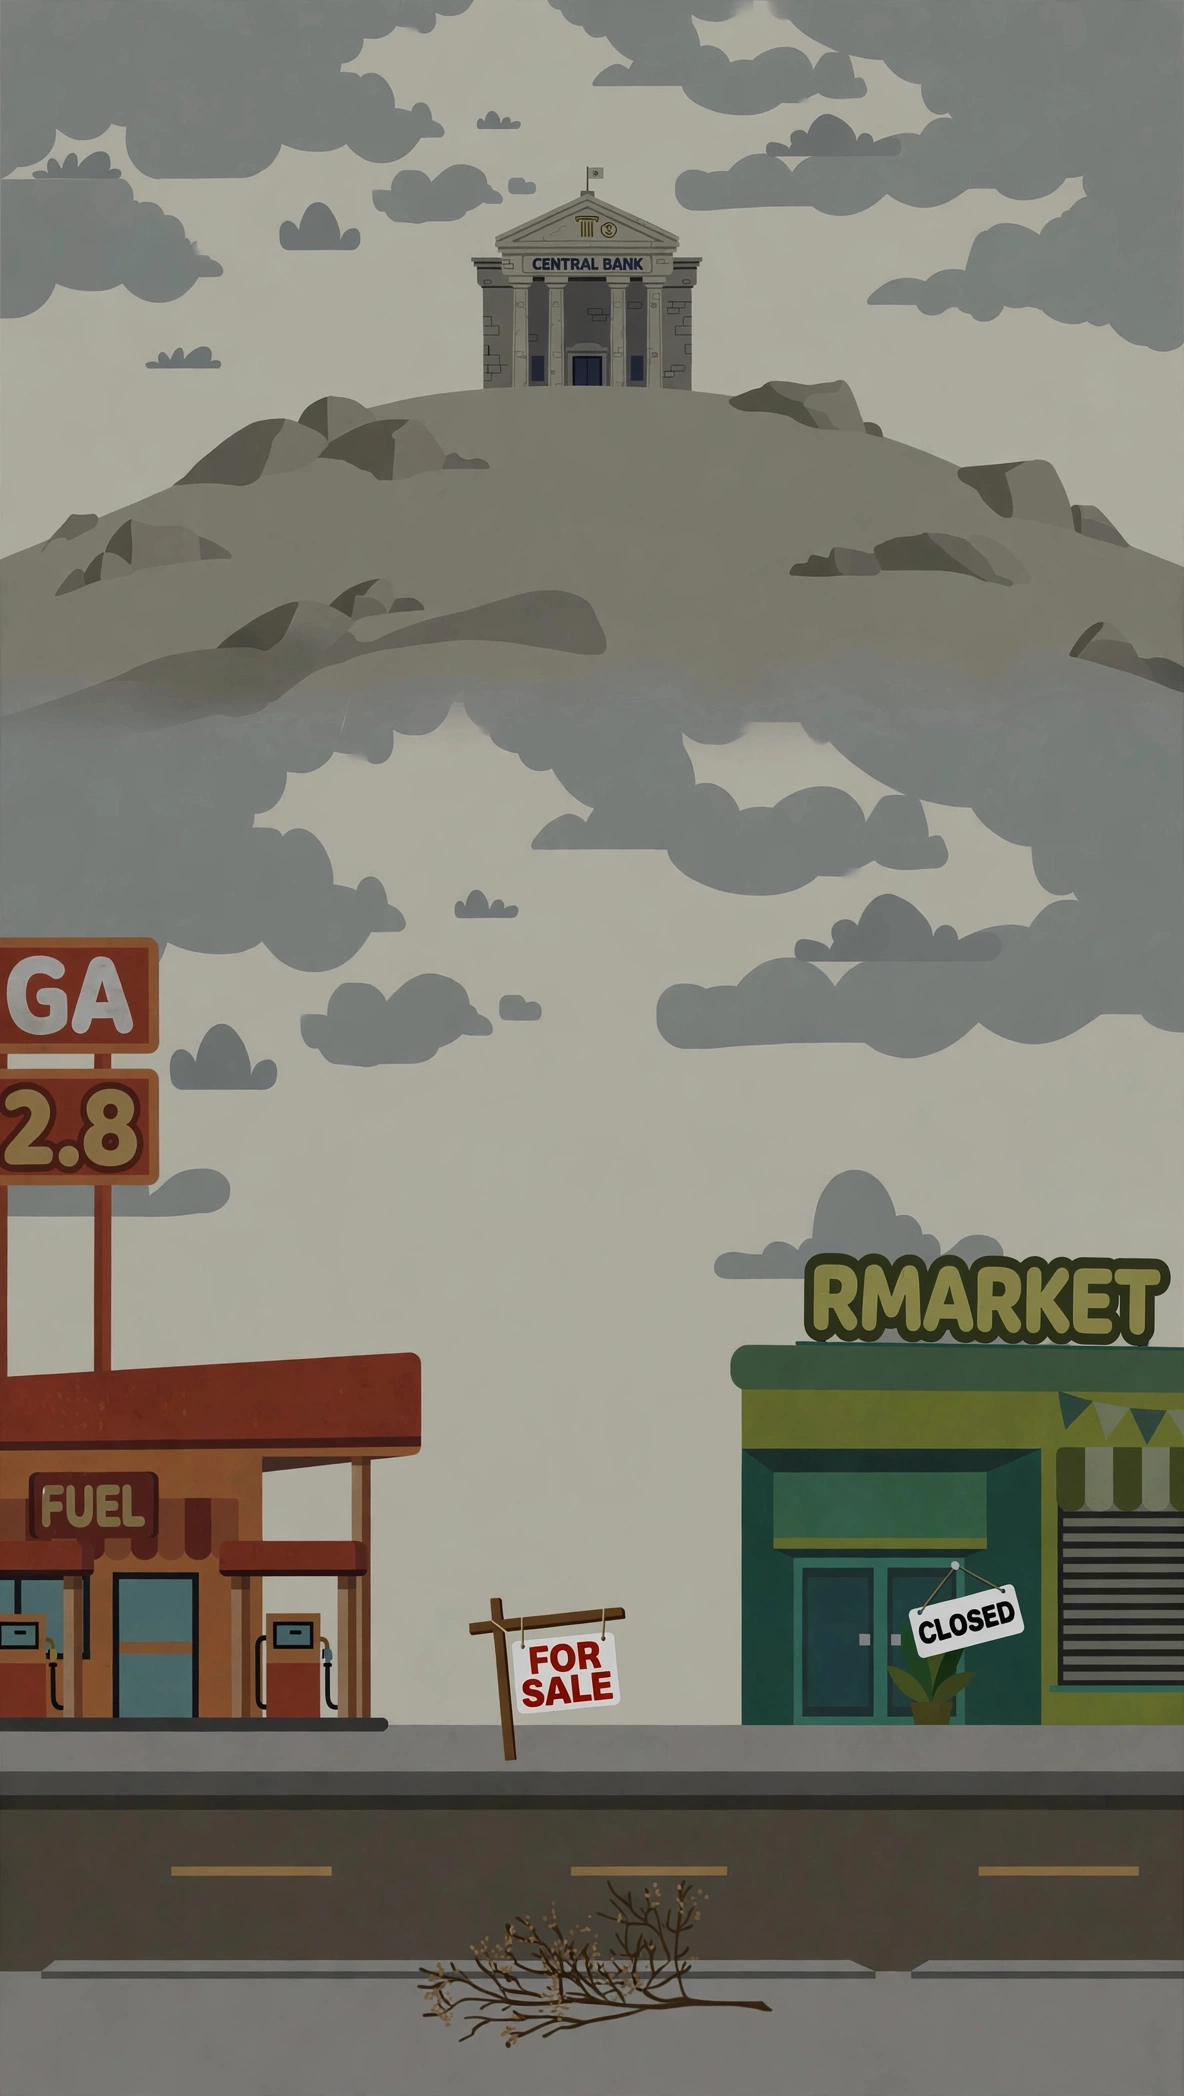
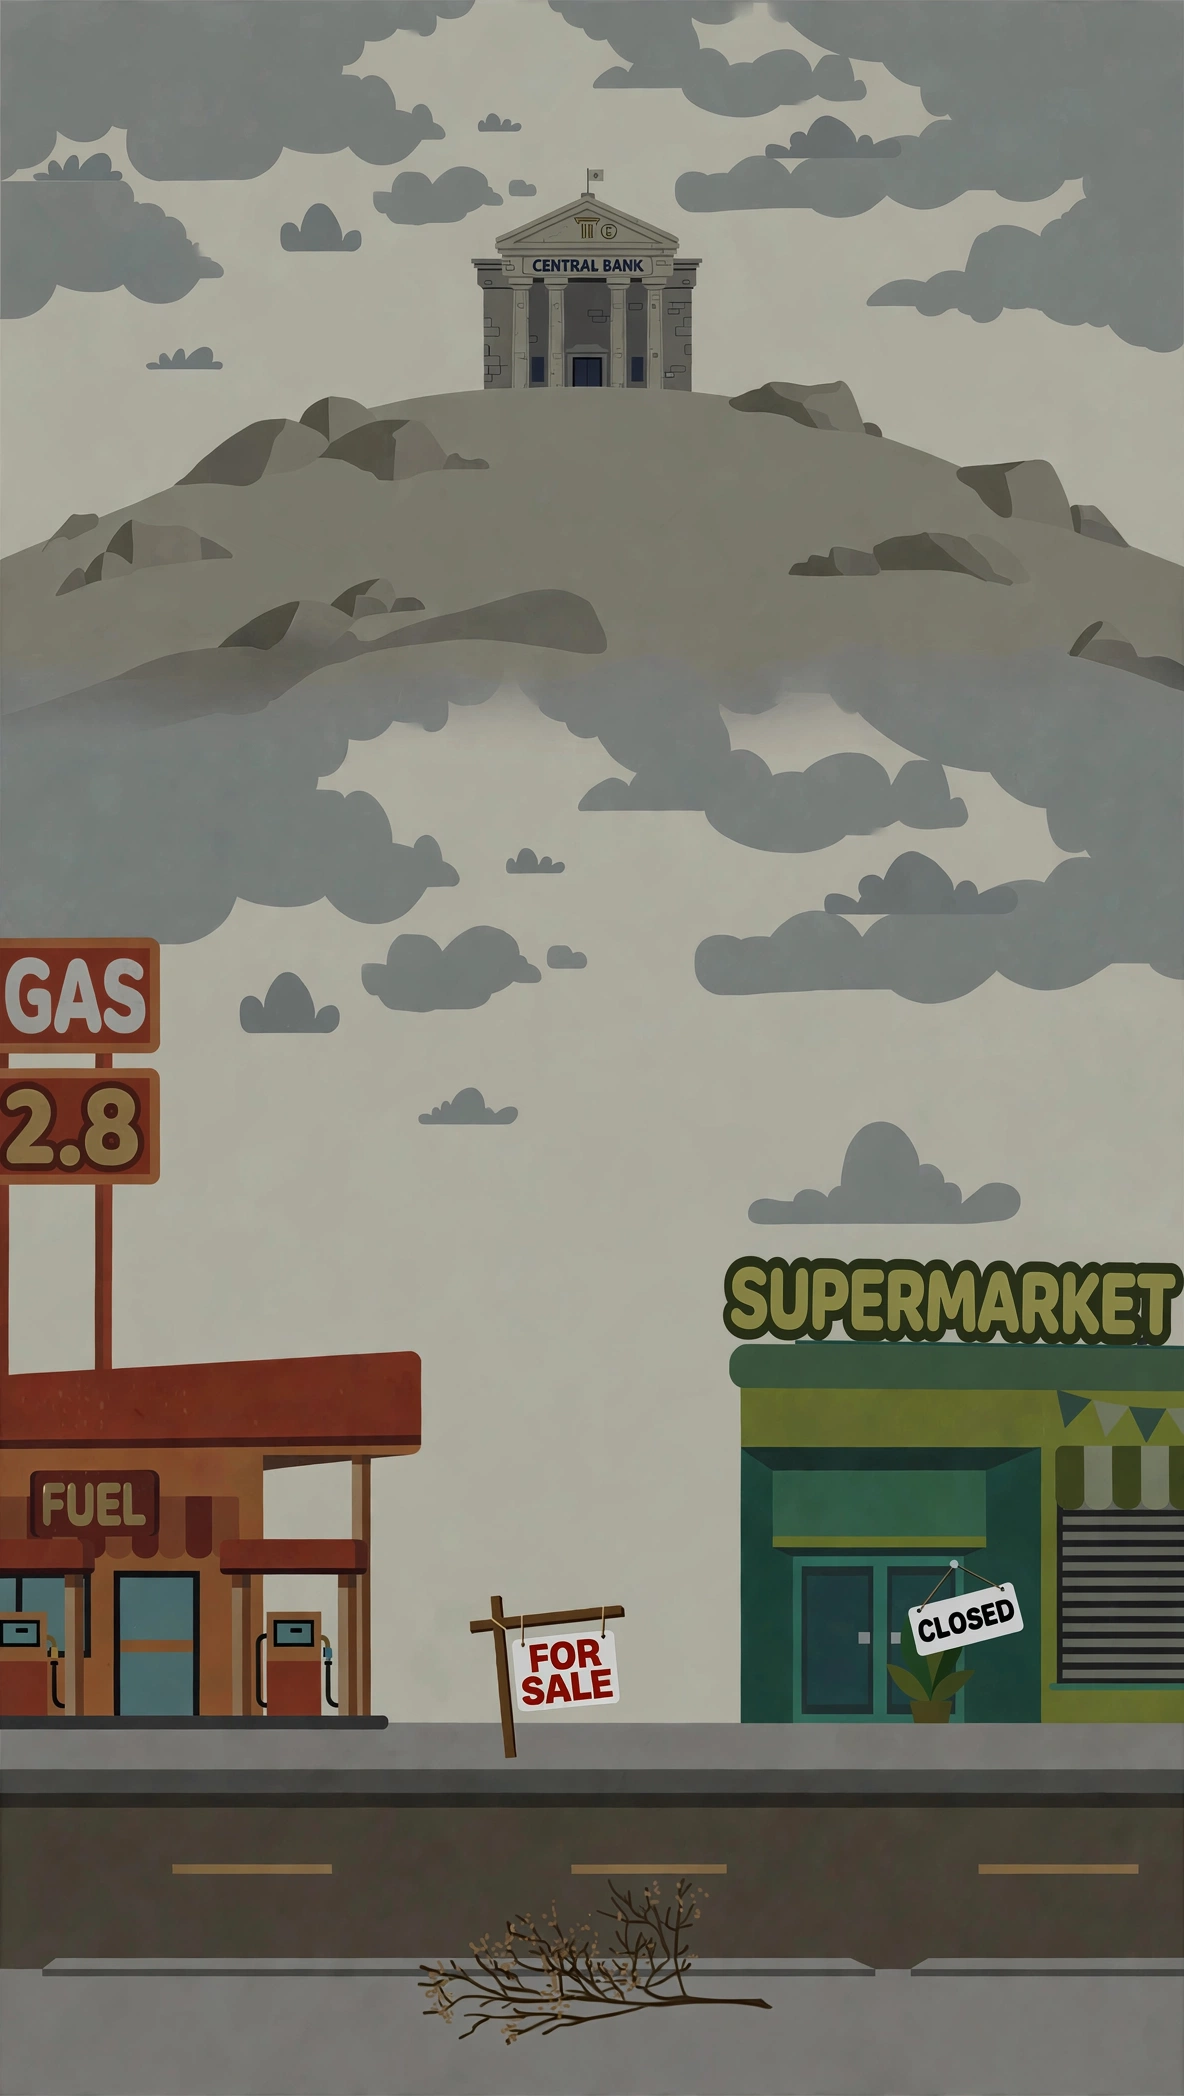
v18: backgrounds remade with space for the price signs, sign positions re-measured from the artwork pixels

diff --git a/game.js b/game.js
@@ -160,11 +160,11 @@ function sceneFor(){
 /* rects are 0-1000 normalised boxes around the prices baked into each plate;
    layout maps them through the same cover/50% 92% maths the CSS background uses */
 const SCENE_PRICES = {
-  normal:    {iw:1120, ih:2240, gas:{r:[2,548,138,594], bg:"#EF551E", fg:"#FFE93C"}, eggs:{r:[638,785,737,832], tag:[736,788,803,819]}},
-  inflation: {iw:1120, ih:2240, gas:{r:[7,556,192,632], bg:"#C9330F", fg:"#FF5A3C"}, eggs:{r:[643,725,719,766], tag:null}},
-  recession: {iw:1184, ih:2096, gas:{r:[0,496,135,553], bg:"#6B1F16", fg:"#D8C58F"}, eggs:null},
-  disaster:  {iw:1184, ih:2096, gas:{r:[38,505,190,565], bg:"#E8491D", fg:"#FF3B30"}, eggs:{r:[688,701,743,730], tag:null}},
-  war:       {iw:1120, ih:2240, gas:{r:[15,562,182,603], bg:"#EF551E", fg:"#FFE93C"}, eggs:{r:[818,778,904,816], tag:[900,782,956,810]}}
+  normal:    {iw:1120, ih:2240, gas:{r:[80,583,265,647], bg:"#EF551E", fg:"#FFE93C"}, eggs:{r:[516,777,644,823], tag:[637,782,707,812]}},
+  inflation: {iw:1120, ih:2240, gas:{r:[143,639,352,698], bg:"#E8491D", fg:"#FF3B30"}, eggs:{r:[668,751,751,789], tag:null}},
+  recession: {iw:1184, ih:2096, gas:{r:[0,509,188,583], bg:"#6B1F16", fg:"#D8C58F"}, eggs:null},
+  disaster:  {iw:1184, ih:2096, gas:{r:[36,520,196,584], bg:"#E8491D", fg:"#FF3B30"}, eggs:{r:[746,734,812,772], tag:null}},
+  war:       {iw:1120, ih:2240, gas:{r:[18,590,215,633], bg:"#EF551E", fg:"#FFE93C"}, eggs:{r:[775,782,921,832], tag:[909,785,981,819]}}
 };
 function priceStr(v){
   if(v >= 100) return String(Math.round(v));

diff --git a/index.html b/index.html
@@ -5,7 +5,7 @@
 <meta name="viewport" content="width=device-width, initial-scale=1, viewport-fit=cover">
 <title>Fed Chair Tycoon</title>
 <link rel="icon" href="assets/icon.png">
-<link rel="stylesheet" href="styles.css?v=17">
+<link rel="stylesheet" href="styles.css?v=18">
 </head>
 <body>
 <div class="app">
@@ -263,7 +263,7 @@
   </aside>
 
 </div>
-<script src="game.js?v=17"></script>
+<script src="game.js?v=18"></script>
 <audio id="bgm" loop preload="auto" src="assets/music-monkeys.mp3"></audio>
 </body>
 </html>
